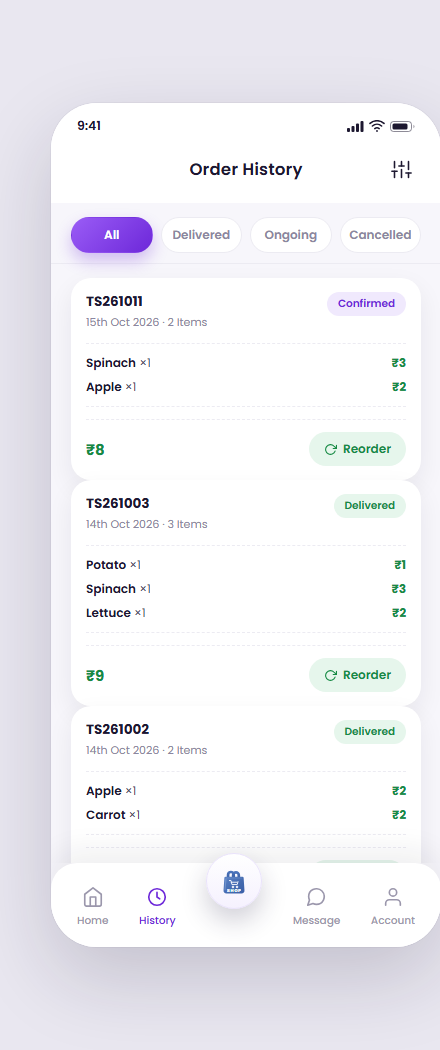
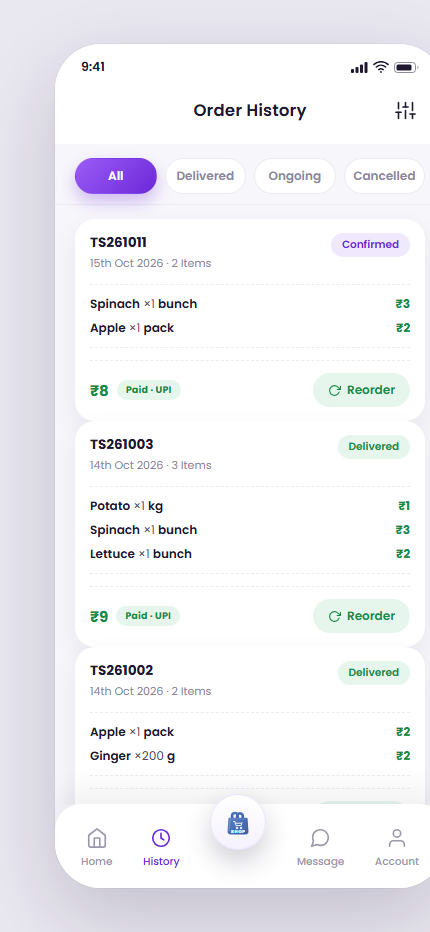
History: show item units (kg/bunch/100 g) and paid/COD payment chips

diff --git a/templates/history.html b/templates/history.html
@@ -61,7 +61,7 @@
         <!-- orders: live from the API when signed in; static demo cards offline -->
         <div id="orderList">
 
-        <article class="order-card" data-status="confirmed" data-order='{"id":"TS261011","status":"confirmed","placed":"15th Oct 2026","delivery":"16th Oct 2026","slot":"morning","payment":"upi","address":"12, Green Park Society, MG Road, Pune 411001","fee":3,"amount":8,"items":[{"name":"Spinach","qty":1,"rate":3},{"name":"Apple","qty":1,"rate":2}]}'>
+        <article class="order-card" data-status="confirmed" data-order='{"id":"TS261011","status":"confirmed","placed":"15th Oct 2026","delivery":"16th Oct 2026","slot":"morning","payment":"upi","address":"12, Green Park Society, MG Road, Pune 411001","fee":3,"amount":8,"items":[{"name":"Spinach","qty":1,"rate":3,"unit":"bunch"},{"name":"Apple","qty":1,"rate":2,"unit":"pack"}]}'>
           <div class="order-head">
             <div>
               <h4>TS261011</h4>
@@ -70,11 +70,14 @@
             <span class="status conf" data-i18n="status_confirmed">Confirmed</span>
           </div>
           <div class="order-items">
-            <div class="oi-line"><span class="oi-name"><span data-i18n="veg_spinach">Spinach</span> ×1</span><span class="oi-amt">₹3</span></div>
-            <div class="oi-line"><span class="oi-name"><span data-i18n="fruit_apple">Apple</span> ×1</span><span class="oi-amt">₹2</span></div>
+            <div class="oi-line"><span class="oi-name"><span data-i18n="veg_spinach">Spinach</span> ×1 <span data-i18n="u_bunch">bunch</span></span><span class="oi-amt">₹3</span></div>
+            <div class="oi-line"><span class="oi-name"><span data-i18n="fruit_apple">Apple</span> ×1 <span data-i18n="u_pack">pack</span></span><span class="oi-amt">₹2</span></div>
           </div>
           <div class="order-foot">
-            <p class="o-total">₹8</p>
+            <div class="of-left">
+              <p class="o-total">₹8</p>
+              <span class="pay-chip"><span data-i18n="paid_word">Paid</span> · <span data-i18n="pay_upi">UPI</span></span>
+            </div>
             <button class="reorder" data-toast-key="toast_reorder">
               <svg viewBox="0 0 24 24" fill="none" stroke="currentColor" stroke-width="2" stroke-linecap="round" stroke-linejoin="round">
                 <path d="M23 4v6h-6" />
@@ -85,7 +88,7 @@
           </div>
         </article>
 
-        <article class="order-card" data-status="delivered" data-order='{"id":"TS261003","status":"delivered","placed":"14th Oct 2026","delivery":"15th Oct 2026","slot":"morning","payment":"upi","address":"12, Green Park Society, MG Road, Pune 411001","fee":3,"amount":9,"items":[{"name":"Potato","qty":1,"rate":1},{"name":"Spinach","qty":1,"rate":3},{"name":"Lettuce","qty":1,"rate":2}]}'>
+        <article class="order-card" data-status="delivered" data-order='{"id":"TS261003","status":"delivered","placed":"14th Oct 2026","delivery":"15th Oct 2026","slot":"morning","payment":"upi","address":"12, Green Park Society, MG Road, Pune 411001","fee":3,"amount":9,"items":[{"name":"Potato","qty":1,"rate":1,"unit":"kg"},{"name":"Spinach","qty":1,"rate":3,"unit":"bunch"},{"name":"Lettuce","qty":1,"rate":2,"unit":"bunch"}]}'>
           <div class="order-head">
             <div>
               <h4>TS261003</h4>
@@ -94,12 +97,15 @@
             <span class="status ok" data-i18n="status_delivered">Delivered</span>
           </div>
           <div class="order-items">
-            <div class="oi-line"><span class="oi-name"><span data-i18n="veg_potato">Potato</span> ×1</span><span class="oi-amt">₹1</span></div>
-            <div class="oi-line"><span class="oi-name"><span data-i18n="veg_spinach">Spinach</span> ×1</span><span class="oi-amt">₹3</span></div>
-            <div class="oi-line"><span class="oi-name"><span data-i18n="veg_lettuce">Lettuce</span> ×1</span><span class="oi-amt">₹2</span></div>
+            <div class="oi-line"><span class="oi-name"><span data-i18n="veg_potato">Potato</span> ×1 <span data-i18n="u_kg">kg</span></span><span class="oi-amt">₹1</span></div>
+            <div class="oi-line"><span class="oi-name"><span data-i18n="veg_spinach">Spinach</span> ×1 <span data-i18n="u_bunch">bunch</span></span><span class="oi-amt">₹3</span></div>
+            <div class="oi-line"><span class="oi-name"><span data-i18n="veg_lettuce">Lettuce</span> ×1 <span data-i18n="u_bunch">bunch</span></span><span class="oi-amt">₹2</span></div>
           </div>
           <div class="order-foot">
-            <p class="o-total">₹9</p>
+            <div class="of-left">
+              <p class="o-total">₹9</p>
+              <span class="pay-chip"><span data-i18n="paid_word">Paid</span> · <span data-i18n="pay_upi">UPI</span></span>
+            </div>
             <button class="reorder" data-toast-key="toast_reorder">
               <svg viewBox="0 0 24 24" fill="none" stroke="currentColor" stroke-width="2" stroke-linecap="round" stroke-linejoin="round">
                 <path d="M23 4v6h-6" />
@@ -110,7 +116,7 @@
           </div>
         </article>
 
-        <article class="order-card" data-status="delivered" data-order='{"id":"TS261002","status":"delivered","placed":"14th Oct 2026","delivery":"15th Oct 2026","slot":"evening","payment":"cod","address":"12, Green Park Society, MG Road, Pune 411001","fee":3,"amount":7,"items":[{"name":"Apple","qty":1,"rate":2},{"name":"Carrot","qty":1,"rate":2}]}'>
+        <article class="order-card" data-status="delivered" data-order='{"id":"TS261002","status":"delivered","placed":"14th Oct 2026","delivery":"15th Oct 2026","slot":"evening","payment":"cod","address":"12, Green Park Society, MG Road, Pune 411001","fee":3,"amount":7,"items":[{"name":"Apple","qty":1,"rate":2,"unit":"pack"},{"name":"Ginger","qty":2,"rate":1,"unit":"100 g"}]}'>
           <div class="order-head">
             <div>
               <h4>TS261002</h4>
@@ -119,11 +125,14 @@
             <span class="status ok" data-i18n="status_delivered">Delivered</span>
           </div>
           <div class="order-items">
-            <div class="oi-line"><span class="oi-name"><span data-i18n="fruit_apple">Apple</span> ×1</span><span class="oi-amt">₹2</span></div>
-            <div class="oi-line"><span class="oi-name"><span data-i18n="veg_carrot">Carrot</span> ×1</span><span class="oi-amt">₹2</span></div>
+            <div class="oi-line"><span class="oi-name"><span data-i18n="fruit_apple">Apple</span> ×1 <span data-i18n="u_pack">pack</span></span><span class="oi-amt">₹2</span></div>
+            <div class="oi-line"><span class="oi-name"><span data-i18n="veg_ginger">Ginger</span> ×200 <span data-i18n="u_g">g</span></span><span class="oi-amt">₹2</span></div>
           </div>
           <div class="order-foot">
-            <p class="o-total">₹7</p>
+            <div class="of-left">
+              <p class="o-total">₹7</p>
+              <span class="pay-chip cod" data-i18n="cod_word">COD</span>
+            </div>
             <button class="reorder" data-toast-key="toast_reorder">
               <svg viewBox="0 0 24 24" fill="none" stroke="currentColor" stroke-width="2" stroke-linecap="round" stroke-linejoin="round">
                 <path d="M23 4v6h-6" />
@@ -134,7 +143,7 @@
           </div>
         </article>
 
-        <article class="order-card" data-status="rejected" data-order='{"id":"TS261010","status":"rejected","placed":"15th Oct 2026","delivery":"—","slot":"morning","payment":"upi","address":"12, Green Park Society, MG Road, Pune 411001","fee":3,"amount":8,"items":[{"name":"Grapes","qty":1,"rate":3},{"name":"Kiwi","qty":2,"rate":1}]}'>
+        <article class="order-card" data-status="rejected" data-order='{"id":"TS261010","status":"rejected","placed":"15th Oct 2026","delivery":"—","slot":"morning","payment":"upi","address":"12, Green Park Society, MG Road, Pune 411001","fee":3,"amount":8,"items":[{"name":"Grapes","qty":1,"rate":3,"unit":"kg"},{"name":"Kiwi","qty":2,"rate":1,"unit":"piece"}]}'>
           <div class="order-head">
             <div>
               <h4>TS261010</h4>
@@ -143,11 +152,14 @@
             <span class="status cancel" data-i18n="status_rejected">Rejected</span>
           </div>
           <div class="order-items">
-            <div class="oi-line"><span class="oi-name"><span data-i18n="fruit_grapes">Grapes</span> ×1</span><span class="oi-amt">₹3</span></div>
-            <div class="oi-line"><span class="oi-name"><span data-i18n="fruit_kiwi">Kiwi</span> ×2</span><span class="oi-amt">₹2</span></div>
+            <div class="oi-line"><span class="oi-name"><span data-i18n="fruit_grapes">Grapes</span> ×1 <span data-i18n="u_kg">kg</span></span><span class="oi-amt">₹3</span></div>
+            <div class="oi-line"><span class="oi-name"><span data-i18n="fruit_kiwi">Kiwi</span> ×2 <span data-i18n="u_piece">piece</span></span><span class="oi-amt">₹2</span></div>
           </div>
           <div class="order-foot">
-            <p class="o-total">₹8</p>
+            <div class="of-left">
+              <p class="o-total">₹8</p>
+              <span class="pay-chip"><span data-i18n="paid_word">Paid</span> · <span data-i18n="pay_upi">UPI</span></span>
+            </div>
             <button class="reorder" data-toast-key="toast_reorder">
               <svg viewBox="0 0 24 24" fill="none" stroke="currentColor" stroke-width="2" stroke-linecap="round" stroke-linejoin="round">
                 <path d="M23 4v6h-6" />

diff --git a/templates/app.js b/templates/app.js
@@ -20,6 +20,23 @@
     var v = Math.round(Number(n) * 10) / 10;
     return Number.isInteger(v) ? String(v) : v.toFixed(1);
   };
+  /* order history: quantity + the unit exactly as stored (kg / bunch / 100 g …) */
+  var UNIT_WORD_KEYS = { bunch: 'u_bunch', pack: 'u_pack', piece: 'u_piece', dozen: 'u_dozen' };
+  var itemQtyHtml = function (it) {
+    var unit = it && it.unit != null ? String(it.unit) : '';
+    var qty = Number(it && it.qty) || 0;
+    if (unit === 'kg') return fmtQty(qty) + ' <span data-i18n="u_kg">' + t('u_kg') + '</span>';
+    if (unit === '100 g') return fmtQty(qty * 100) + ' <span data-i18n="u_g">' + t('u_g') + '</span>';
+    if (!unit) return fmtQty(qty);
+    var key = UNIT_WORD_KEYS[unit];
+    return fmtQty(qty) + (key ? ' <span data-i18n="' + key + '">' + t(key) + '</span>' : ' ' + esc(unit));
+  };
+  var payChipHtml = function (payment) {
+    return String(payment || '').toLowerCase() === 'cod'
+      ? '<span class="pay-chip cod" data-i18n="cod_word">' + t('cod_word') + '</span>'
+      : '<span class="pay-chip"><span data-i18n="paid_word">' + t('paid_word') +
+        '</span> · <span data-i18n="pay_upi">' + t('pay_upi') + '</span></span>';
+  };
   var esc = function (s) {
     return String(s == null ? '' : s)
       .replace(/&/g, '&amp;').replace(/</g, '&lt;').replace(/>/g, '&gt;')
@@ -83,6 +100,15 @@
       unit_piece: ' /piece',
       unit_dozen: ' /dozen',
       unit_100g: ' /100 g',
+      u_kg: 'kg',
+      u_g: 'g',
+      u_bunch: 'bunch',
+      u_pack: 'pack',
+      u_piece: 'piece',
+      u_dozen: 'dozen',
+      pay_upi: 'UPI',
+      paid_word: 'Paid',
+      cod_word: 'COD',
       sec_kg: 'KG · Weight',
       sec_bunch: 'Bunch (Judi)',
       sec_gram: 'Gram',
@@ -269,6 +295,15 @@
       unit_piece: ' /नग',
       unit_dozen: ' /दर्जन',
       unit_100g: ' /100 ग्राम',
+      u_kg: 'किलो',
+      u_g: 'ग्राम',
+      u_bunch: 'गड्डी',
+      u_pack: 'पैक',
+      u_piece: 'नग',
+      u_dozen: 'दर्जन',
+      pay_upi: 'UPI',
+      paid_word: 'भुगतान हुआ',
+      cod_word: 'COD',
       sec_kg: 'किलो · वज़न',
       sec_bunch: 'गड्डी (जुडी)',
       sec_gram: 'ग्राम',
@@ -455,6 +490,15 @@
       unit_piece: ' /नग',
       unit_dozen: ' /डझन',
       unit_100g: ' /100 ग्राम',
+      u_kg: 'किलो',
+      u_g: 'ग्राम',
+      u_bunch: 'गड्डी',
+      u_pack: 'पॅक',
+      u_piece: 'नग',
+      u_dozen: 'डझन',
+      pay_upi: 'UPI',
+      paid_word: 'पेमेंट झाले',
+      cod_word: 'COD',
       sec_kg: 'किलो · वजन',
       sec_bunch: 'गड्डी (जुडी)',
       sec_gram: 'ग्राम',
@@ -1162,7 +1206,7 @@
         var nameHtml = key
           ? '<span data-i18n="' + key + '">' + esc(it.name) + '</span>'
           : '<span>' + esc(it.name) + '</span>';
-        return '<div class="oi-line"><span class="oi-name">' + nameHtml + ' ×' + fmtQty(it.qty) + '</span>' +
+        return '<div class="oi-line"><span class="oi-name">' + nameHtml + ' ×' + itemQtyHtml(it) + '</span>' +
           '<span class="oi-amt">' + money(Number(it.rate) * Number(it.qty)) + '</span></div>';
       }).join('');
       if (items.length > MAX) {
@@ -1179,7 +1223,7 @@
         '</div>' +
         '<div class="order-items">' + lines + '</div>' +
         '<div class="order-foot">' +
-        '<p class="o-total">₹' + fmtQty(o.amount) + '</p>' +
+        '<div class="of-left"><p class="o-total">₹' + fmtQty(o.amount) + '</p>' + payChipHtml(o.payment) + '</div>' +
         '<button class="reorder" data-reorder="' + o.id + '">' + REORDER_SVG + '<span data-i18n="reorder">' + t('reorder') + '</span></button>' +
         '</div>' +
         '</article>';
@@ -1289,7 +1333,10 @@
       var meta = '';
       meta += smRow(t('sheet_placed'), fmtDate(order.placed));
       meta += smRow(t('slot_title'), order.slot === 'evening' ? t('slot_evening') : t('slot_morning'));
-      meta += smRow(t('sheet_payment'), String(order.payment || '').toUpperCase());
+      var payValue = String(order.payment || '').toLowerCase() === 'cod'
+        ? '<span data-i18n="cod_word">' + t('cod_word') + '</span> · <span data-i18n="pay_cod_sub">' + t('pay_cod_sub') + '</span>'
+        : '<span data-i18n="pay_upi">' + t('pay_upi') + '</span> · <span data-i18n="paid_word">' + t('paid_word') + '</span>';
+      meta += '<div class="sm-row"><span>' + esc(t('sheet_payment')) + '</span><b>' + payValue + '</b></div>';
       meta += smRow(t('order_delivery'), fmtDate(order.delivery));
       meta += smRow(t('delivery_address'), order.address || '—');
       $('#sheetMeta').innerHTML = meta;
@@ -1309,7 +1356,7 @@
         var nameHtml = key
           ? '<span data-i18n="' + key + '">' + esc(it.name) + '</span>'
           : '<span>' + esc(it.name) + '</span>';
-        return '<div class="oi-line"><span class="oi-name">' + nameHtml + ' ×' + fmtQty(it.qty) + '</span>' +
+        return '<div class="oi-line"><span class="oi-name">' + nameHtml + ' ×' + itemQtyHtml(it) + '</span>' +
           '<span class="oi-amt">' + money(amount) + '</span></div>';
       }).join('') || '<p class="oi-empty">—</p>';
 
@@ -1371,6 +1418,21 @@
 
     if (sheetBackdrop) sheetBackdrop.addEventListener('click', closeOrderSheet);
     if ($('#sheetClose')) $('#sheetClose').addEventListener('click', closeOrderSheet);
+
+    /* preview helper: ?order=TS… opens the details sheet for that order */
+    var orderParam = new URLSearchParams(location.search).get('order');
+    if (orderParam) {
+      setTimeout(function () {
+        var cards = $$('.order-card', orderListEl);
+        for (var i = 0; i < cards.length; i++) {
+          var data = cards[i].getAttribute('data-order') || '';
+          if (cards[i].getAttribute('data-id') === orderParam || data.indexOf('"id":"' + orderParam + '"') !== -1) {
+            cards[i].click();
+            break;
+          }
+        }
+      }, 600);
+    }
 
     window.TAZA.available().then(function (ok) {
       if (!ok) return;                    /* static demo (file://) — keep the demo cards */

diff --git a/templates/styles.css b/templates/styles.css
@@ -848,6 +848,7 @@ input[type='search']::-webkit-search-cancel-button { display: none; }
 }
 .sm-row span { color: var(--muted); flex: none; text-transform: capitalize; }
 .sm-row b { font-weight: 600; text-align: right; }
+.sm-row b span { color: inherit; flex: initial; text-transform: none; }
 
 .sheet-sub { font-size: 13px; font-weight: 700; margin: 14px 0 8px; }
 
@@ -921,6 +922,20 @@ input[type='search']::-webkit-search-cancel-button { display: none; }
   padding-top: 12px;
 }
 .o-total { font-size: 15px; font-weight: 700; color: var(--green-strong); }
+
+/* payment mode chip on order cards (Paid · UPI / COD) */
+.of-left { display: flex; align-items: center; gap: 8px; min-width: 0; }
+.pay-chip {
+  font-size: 9.5px;
+  font-weight: 700;
+  letter-spacing: 0.02em;
+  padding: 3px 9px;
+  border-radius: 99px;
+  background: var(--green-soft);
+  color: var(--green-strong);
+  white-space: nowrap;
+}
+.pay-chip.cod { background: #fff4e0; color: #c07c00; }
 
 .reorder {
   display: flex;
